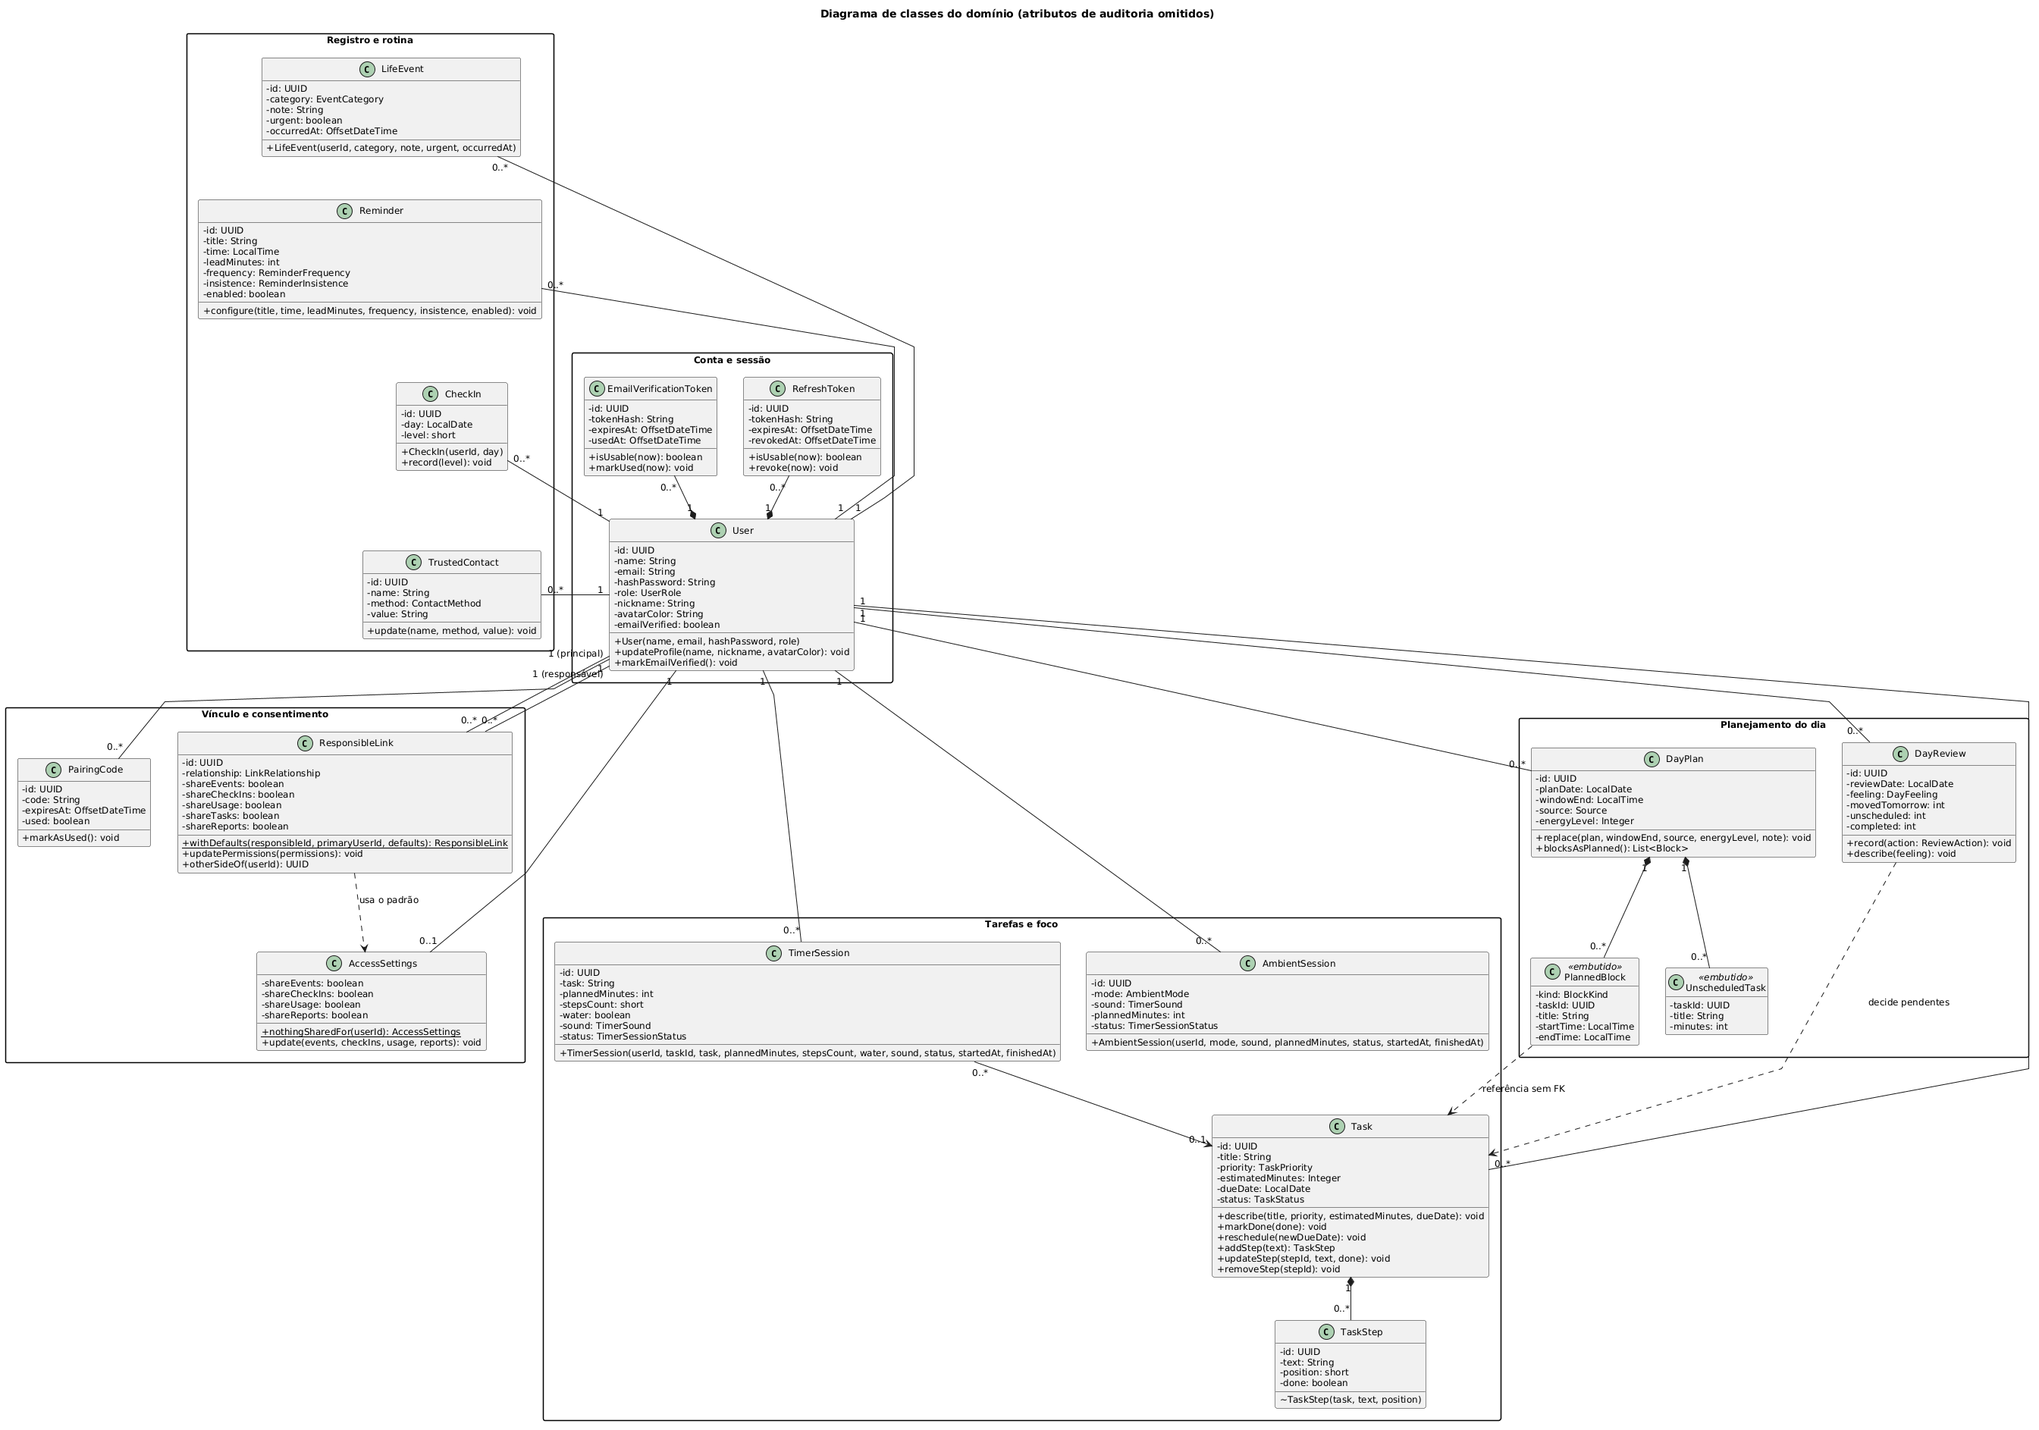
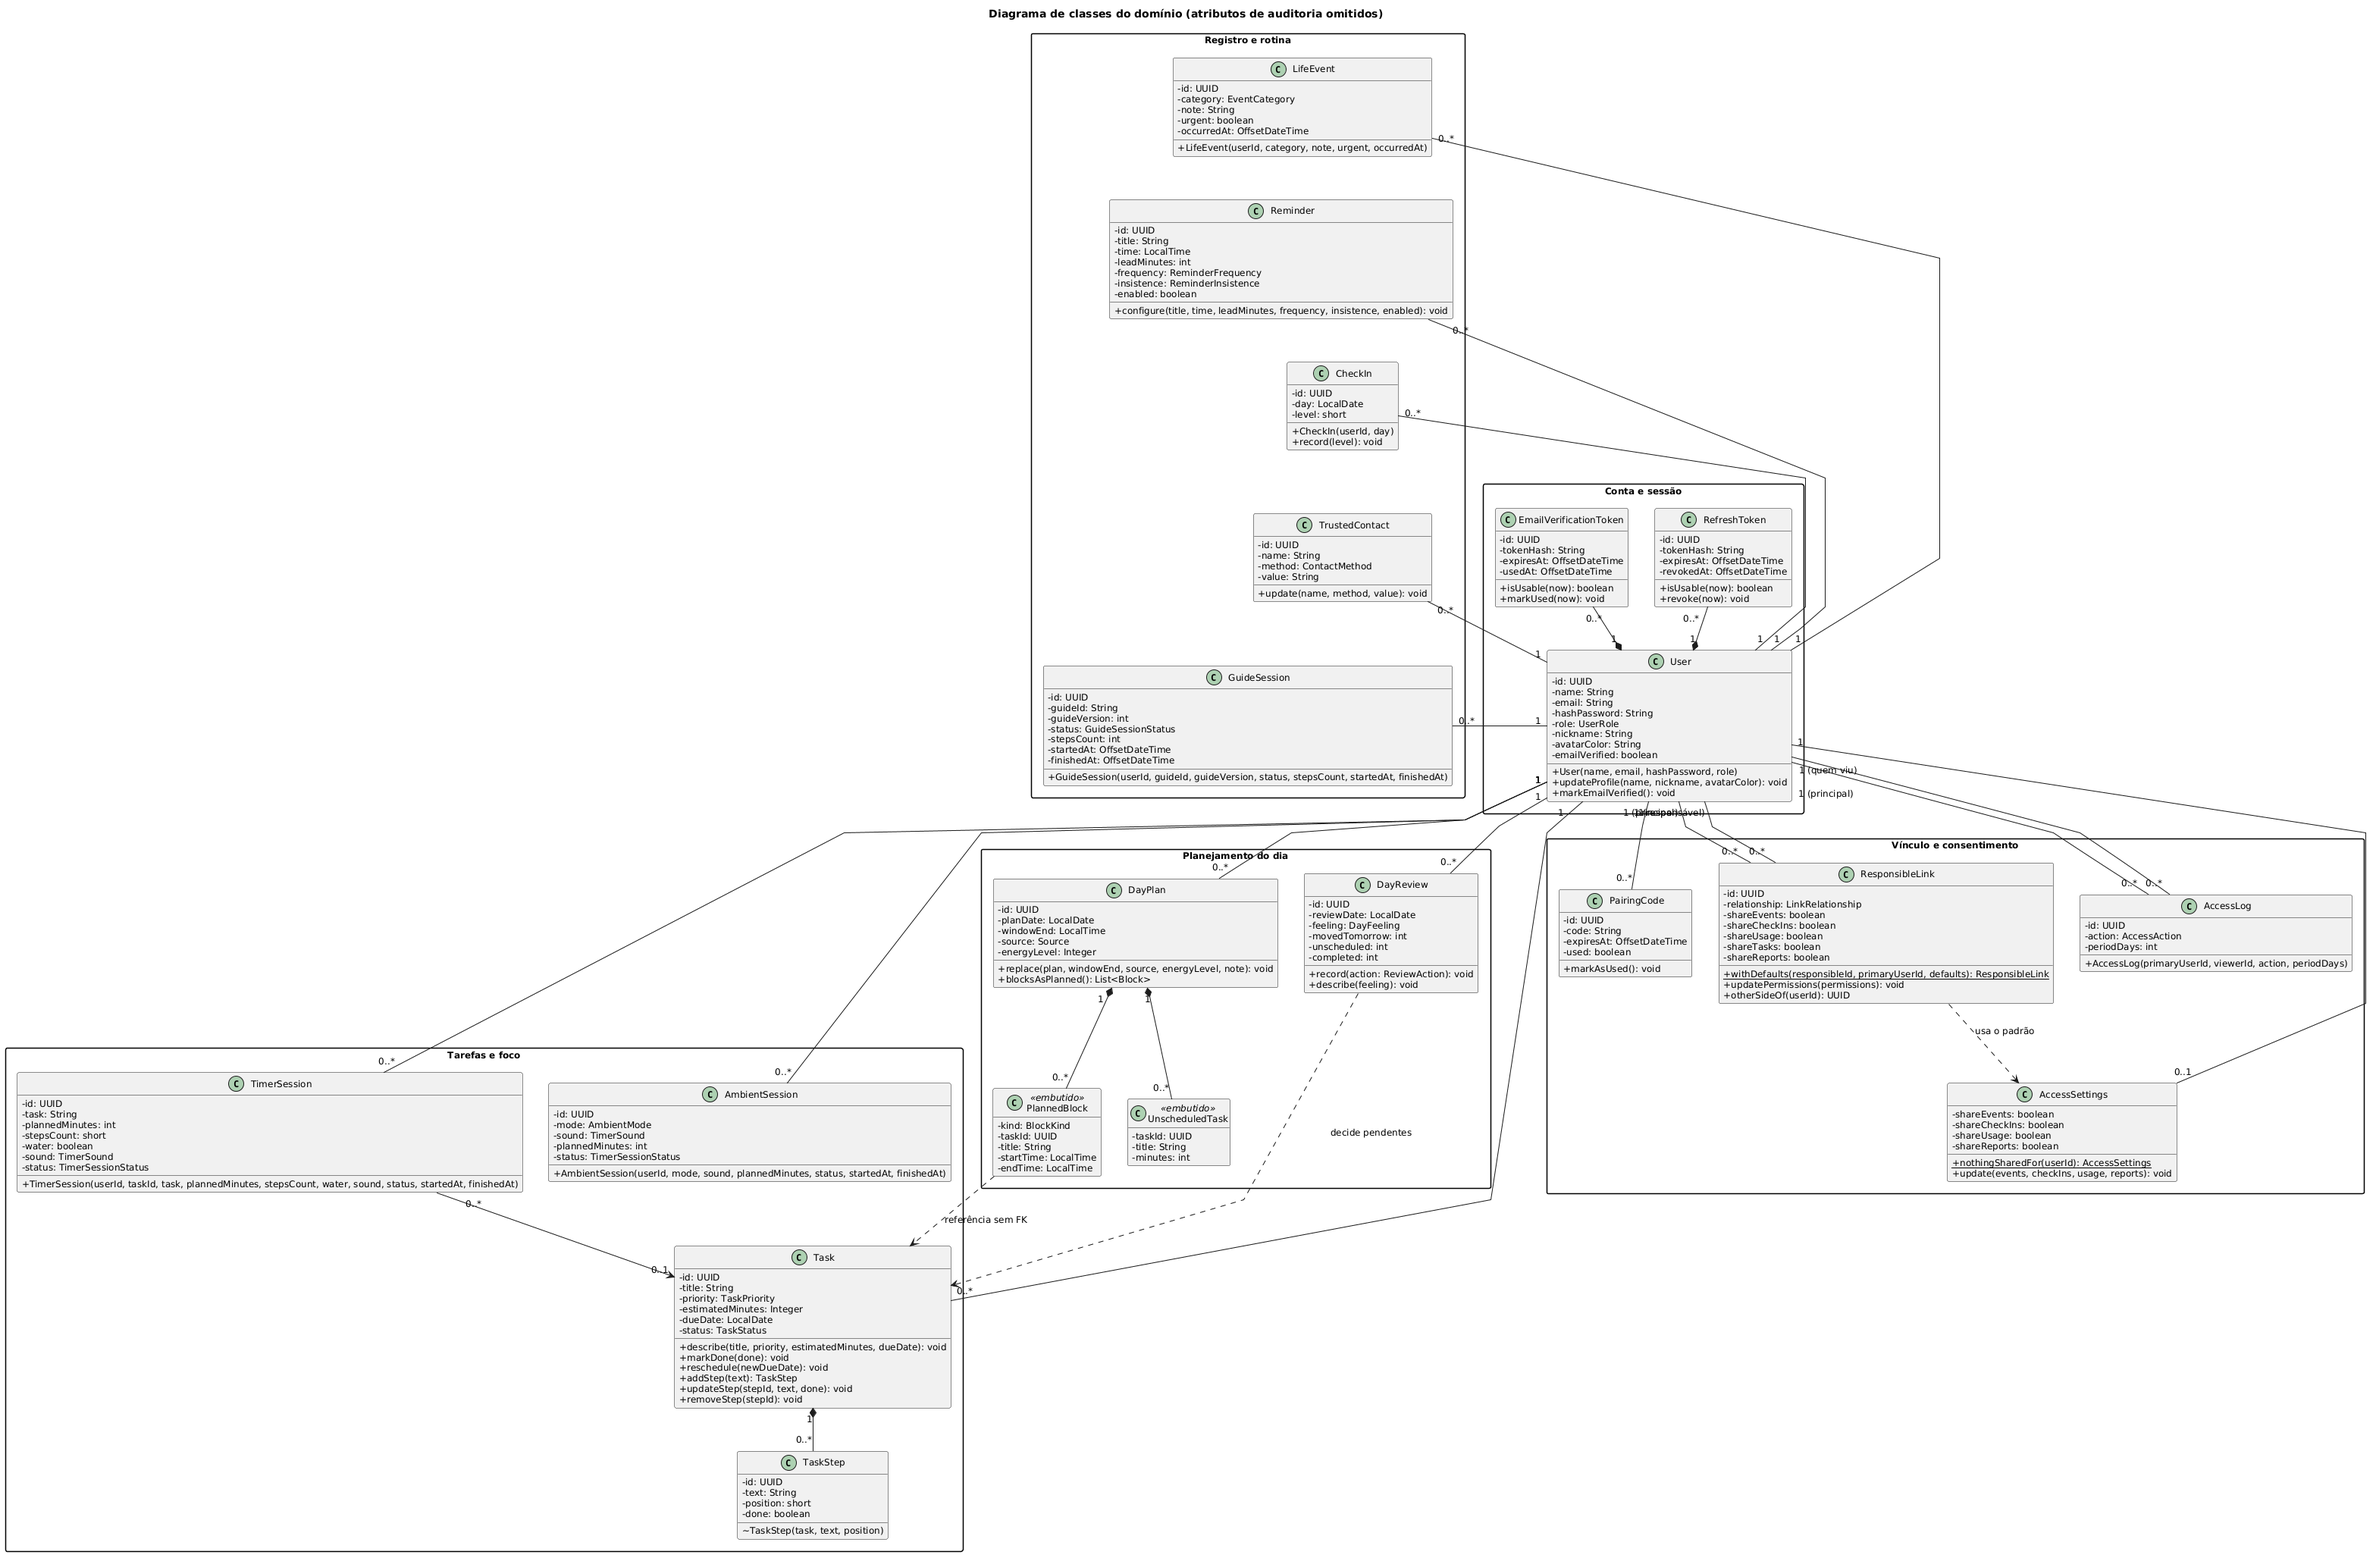
docs(diagramas): imagens regeneradas, consulta de acessos como extensão de RF8 e README em português

diff --git a/diagrams/README.md b/diagrams/README.md
@@ -1,38 +1,22 @@
-# PlantUML System Diagrams
+# Diagramas do Kaluanã
 
-This directory contains the PlantUML (`.puml`) source files modeling the Kaluanã platform.
+Fontes em PlantUML (`.puml`) e as imagens geradas em `png/`. Todos foram conferidos com o código e com as migrações do banco (`V1` a `V18`).
 
-## Diagrams Included
+| Arquivo | O que mostra |
+| --- | --- |
+| `use-case-diagram.puml` | Casos de uso por área (registro e rotina, tarefas e foco, planejamento, vínculo e relatório), com os atores Usuário, Responsável ou profissional e Assistente de IA (opcional). |
+| `class-diagram.puml` | Entidades e métodos reais. As linhas cheias são chaves estrangeiras do banco; as tracejadas são dependências sem chave estrangeira (por exemplo, `PlannedBlock` guarda o id da tarefa dentro do plano). |
+| `architecture-diagram.puml` | Aplicativo (Expo, axios), Caddy, API Spring Boot, PostgreSQL, Redis, SMTP e o assistente de IA opcional. |
+| `focus-session-state-diagram.puml` | Estados da sessão de foco (RF9). |
+| `guide-session-state-diagram.puml` | Estados da sessão do guia de autorregulação (RF13). |
+| `replanning-activity-diagram.puml` | Atividades do replanejamento do dia (RF14). |
 
-1. `class-diagram.puml`
-   - High-cohesion domain model structured into logical packages (`Identity & Access`, `Pairing & Delegation`, `Daily Planning & Tasks`, `Focus & Sensory Support`, `Self-Monitoring & Support`).
-   - Reflects actual PostgreSQL foreign keys from Flyway migrations (`V1`..`V13`).
-   - Weak dependencies explicitly identified (e.g., `PlannedBlock` referencing `Task` without database FK constraint).
-   - Eliminates misplaced methods and empty classes from legacy models.
+## Como gerar as imagens
 
-2. `use-case-diagram.puml`
-   - Subsystem-partitioned use cases cleanly separating Primary User (ADHD individual), Responsible/Professional, and AI Assistant Service.
-   - Standardized `<<extend>>`, `<<include>>`, and direct actor associations.
+Com Docker:
 
-3. `architecture-diagram.puml`
-   - Layered architecture: Mobile Client (React Native/Expo + Axios), Security/Filter Layer, Backend Core (Spring Boot), Relational DB (PostgreSQL 16), Cache/Rate Limiting (Redis 7), and External Services.
-
-4. `focus-session-state-diagram.puml`
-   - State transition diagram for the focus timer (`IDLE`, `RUNNING`, `PAUSED`, `COMPLETED`, `CANCELED`).
-
-5. `replanning-activity-diagram.puml`
-   - Activity workflow detailing deterministic schedule recalculation, block shifting, overflow detection, and user notification.
-
-## How to Render
-
-### Option 1: PlantUML CLI / Jar
 ```bash
-java -jar plantuml.jar *.puml
+docker run --rm -e PLANTUML_LIMIT_SIZE=16384 -v "$PWD/diagrams:/data" plantuml/plantuml:latest -tpng -charset UTF-8 -o /data/png /data/*.puml
 ```
 
-### Option 2: VS Code / IDE Plugin
-- Install the **PlantUML** extension (`jebbs.plantuml`).
-- Open any `.puml` file and press `Alt + D` to preview.
-
-### Option 3: Online PlantUML Server
-- Copy and paste the contents into [PlantText](https://www.planttext.com/) or the official [PlantUML Web Server](http://www.plantuml.com/plantuml/uml/).
+Ou pela extensão PlantUML do VS Code (`jebbs.plantuml`), abrindo o arquivo e usando `Alt + D`.
